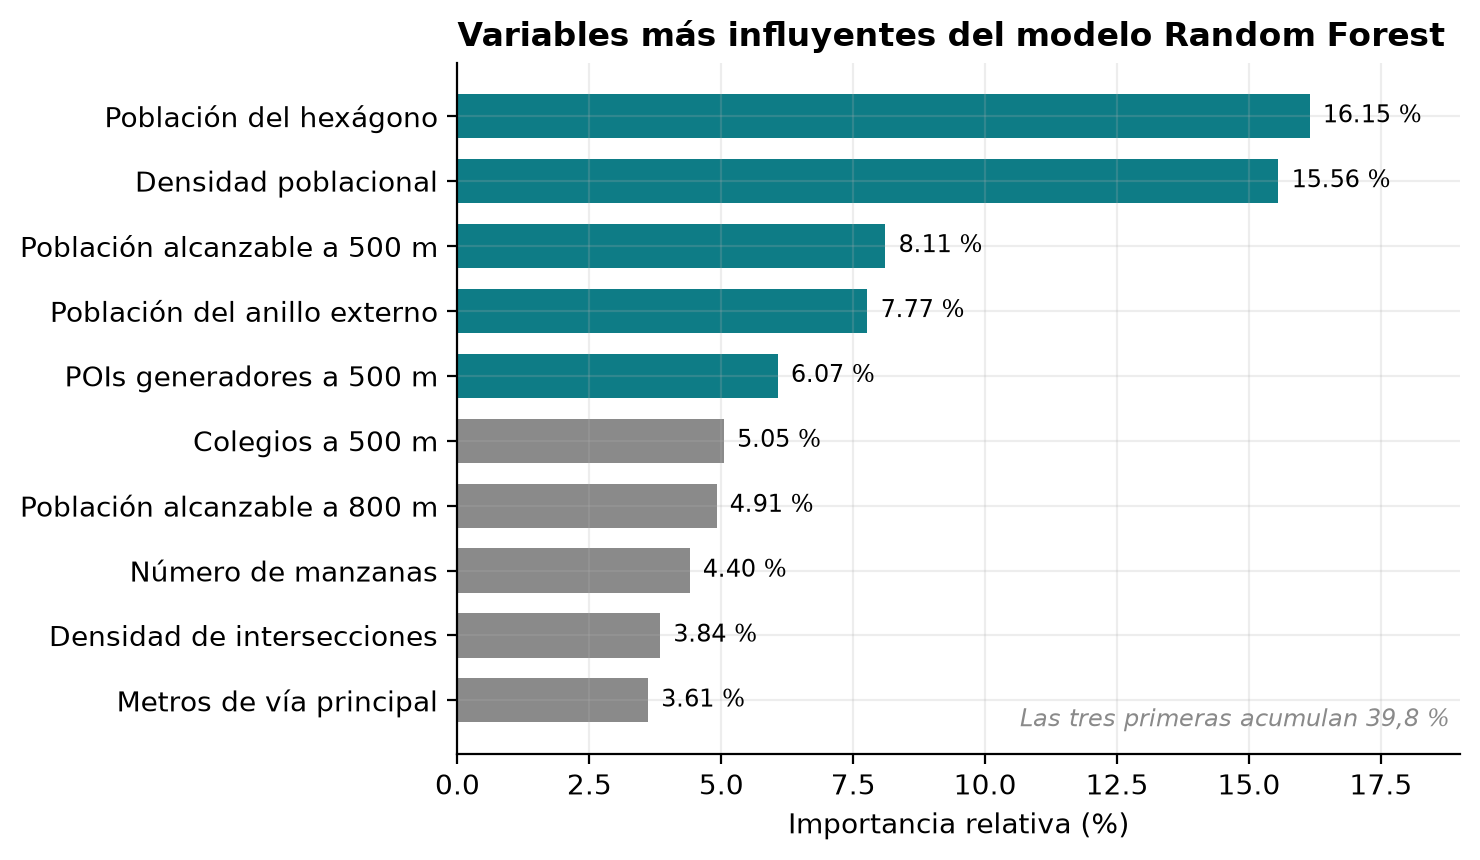
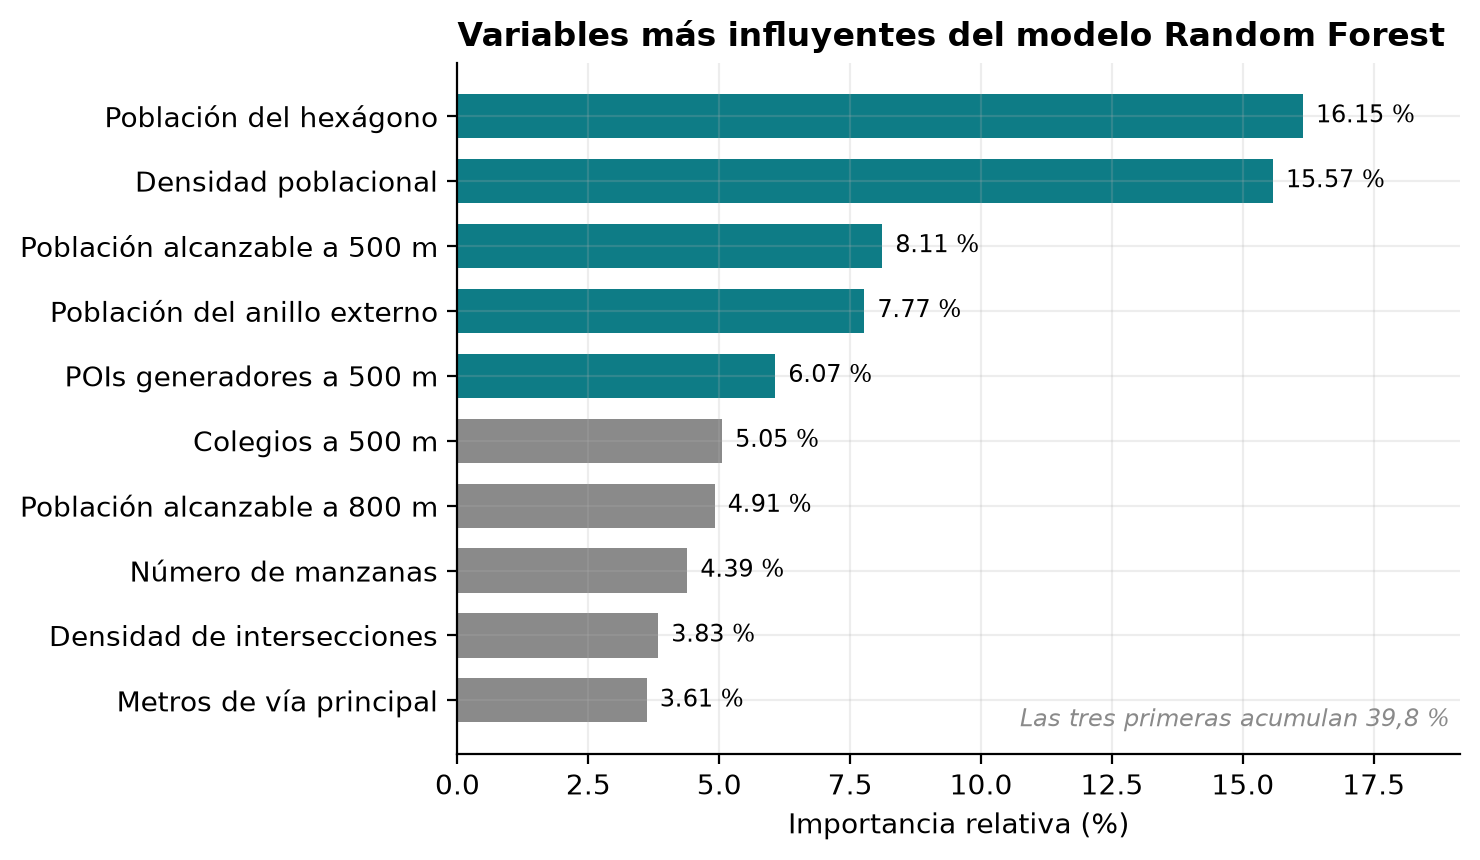
Generar las figuras del capitulo V a partir de los resultados del pipeline
figuras_capitulo5.py tenia las metricas escritas a mano, por lo que las
figuras 23, 24, 25 y 30 no cambiaban al reejecutar el pipeline. Ahora leen
resultados/. pipeline.py guarda ademas la validacion cruzada espacial y la
importancia de variables, y todos los scripts leen y escriben directamente
en resultados/ y figuras/.

diff --git a/figuras_capitulo5.py b/figuras_capitulo5.py
@@ -7,10 +7,17 @@ variables, comparacion de modelos, distribucion territorial del Top-50, pesos
 elicitados por AHP, puntajes SUS, dimensiones TAM, resultados por perfil de
 usuario y comparacion entre las dos estrategias de validacion.
 """
+import glob
+
+import geopandas as gpd
 import matplotlib
 matplotlib.use("Agg")
 import matplotlib.pyplot as plt
 import numpy as np
+import pandas as pd
+
+RES = "resultados"
+FIG = "figuras"
 
 plt.rcParams.update({
     "font.size": 10, "figure.dpi": 200, "savefig.dpi": 200,
@@ -26,17 +33,21 @@ CARMIN = "#B23A5B"
 
 def guardar(fig, nombre):
     fig.tight_layout()
-    fig.savefig(nombre, bbox_inches="tight", facecolor="white")
+    fig.savefig(f"{FIG}/{nombre}", bbox_inches="tight", facecolor="white")
     plt.close(fig)
     print(f"  >> {nombre}")
 
 
-var = ["Población del hexágono", "Densidad poblacional",
-       "Población alcanzable a 500 m", "Población del anillo externo",
-       "POIs generadores a 500 m", "Colegios a 500 m",
-       "Población alcanzable a 800 m", "Número de manzanas",
-       "Densidad de intersecciones", "Metros de vía principal"]
-imp = [.1615, .1556, .0811, .0777, .0607, .0505, .0491, .0440, .0384, .0361]
+ETIQUETAS = {
+    "pob_2017": "Población del hexágono", "dens_hab_km2": "Densidad poblacional",
+    "pob_k1": "Población alcanzable a 500 m", "pob_k1_ext": "Población del anillo externo",
+    "n_poi_k1": "POIs generadores a 500 m", "n_colegio_k1": "Colegios a 500 m",
+    "pob_k2": "Población alcanzable a 800 m", "n_mz": "Número de manzanas",
+    "dens_intersec_km2": "Densidad de intersecciones", "long_princ_m": "Metros de vía principal",
+}
+I = pd.read_csv(f"{RES}/importancia_variables.csv").head(10)
+var = [ETIQUETAS.get(v, v) for v in I["variable"]]
+imp = I["importancia"].tolist()
 fig, ax = plt.subplots(figsize=(7.5, 4.4))
 y = np.arange(len(var))[::-1]
 col = [PETROL if v >= .06 else GRIS for v in imp]
@@ -46,16 +57,21 @@ ax.set_xlabel("Importancia relativa (%)")
 ax.set_title("Variables más influyentes del modelo Random Forest", loc="left", weight="bold")
 for yy, v in zip(y, imp):
     ax.text(v * 100 + .25, yy, f"{v*100:.2f} %", va="center", fontsize=8.5)
-ax.set_xlim(0, 19)
-ax.text(.99, .04, "Las tres primeras acumulan 39,8 %", transform=ax.transAxes,
+ax.set_xlim(0, max(imp) * 100 + 3)
+ax.text(.99, .04, f"Las tres primeras acumulan {sum(imp[:3])*100:.1f} %".replace(".", ","), transform=ax.transAxes,
         ha="right", fontsize=8.5, style="italic", color=GRIS)
 guardar(fig, "fig23_importancia_variables.png")
 
-mod = ["Baseline\ndensidad", "Baseline\npoblación", "Baseline\nPOIs",
-       "Regresión\nlogística", "Random\nForest", "XGBoost", "Ensamble"]
-pr = [.080, .092, .062, .101, .103, .089, .108]
-lift = [2.066, 3.099, 2.324, 3.357, 3.616, 3.357, 3.874]
-es_base = [True, True, True, False, False, False, False]
+NOMBRES_BT = {
+    "Baseline densidad": "Baseline\ndensidad", "Baseline pob. k1": "Baseline\npoblación",
+    "Baseline POIs k1": "Baseline\nPOIs", "Regresion logistica": "Regresión\nlogística",
+    "Random Forest": "Random\nForest", "XGBoost": "XGBoost", "Ensamble (rank avg)": "Ensamble",
+}
+BT = pd.read_csv(f"{RES}/resultados_backtesting.csv").set_index("modelo").loc[list(NOMBRES_BT)]
+mod = list(NOMBRES_BT.values())
+pr = BT["PR_AUC"].tolist()
+lift = BT["Lift@10%"].tolist()
+es_base = [m.startswith("Baseline") for m in BT.index]
 fig, (a1, a2) = plt.subplots(1, 2, figsize=(10.5, 4.2))
 x = np.arange(len(mod))
 c = [GRIS if b else PETROL for b in es_base]
@@ -64,23 +80,32 @@ a1.bar(x, pr, color=c)
 a1.set_xticks(x); a1.set_xticklabels(mod, fontsize=8)
 a1.set_ylabel("PR-AUC"); a1.set_title("Área bajo la curva precisión-recall", loc="left", weight="bold")
 for xx, v in zip(x, pr): a1.text(xx, v + .002, f"{v:.3f}", ha="center", fontsize=8)
-a1.set_ylim(0, .125)
+a1.set_ylim(0, max(pr) * 1.15)
 a2.bar(x, lift, color=c)
 a2.axhline(3, color=CARMIN, ls="--", lw=1.4)
-a2.text(len(mod) - .4, 3.06, "Criterio: Lift ≥ 3", ha="right", color=CARMIN, fontsize=8.5)
+a2.text(-.4, max(max(lift), 3) * 1.12, "- - Criterio: Lift ≥ 3", ha="left", color=CARMIN, fontsize=8.5)
 a2.set_xticks(x); a2.set_xticklabels(mod, fontsize=8)
 a2.set_ylabel("Lift en el decil superior")
 a2.set_title("Concentración de aperturas en el decil superior", loc="left", weight="bold")
 for xx, v in zip(x, lift): a2.text(xx, v + .06, f"{v:.2f}", ha="center", fontsize=8)
-a2.set_ylim(0, 4.6)
+a2.set_ylim(0, max(max(lift), 3) * 1.18)
 guardar(fig, "fig24_comparacion_modelos.png")
 
-dist = ["Jacobo Hunter", "Socabaya", "Cerro Colorado", "Miraflores", "Tiabaya",
-        "Mariano Melgar", "Cayma", "Yura", "Uchumayo", "Yanahuara",
-        "Sachaca", "Paucarpata", "Alto Selva Alegre"]
-n = [10, 9, 8, 7, 3, 3, 2, 2, 2, 1, 1, 1, 1]
-pob = [49454, 75145, 196909, 60361, 16065, 62051, 91197, 32926, 13978,
-       25247, 23913, 131073, 85757]
+UBIGEOS = {
+    "040101": "AREQUIPA", "040102": "ALTO SELVA ALEGRE", "040103": "CAYMA",
+    "040104": "CERRO COLORADO", "040105": "CHARACATO", "040107": "JACOBO HUNTER",
+    "040109": "MARIANO MELGAR", "040110": "MIRAFLORES", "040112": "PAUCARPATA",
+    "040116": "SABANDIA", "040117": "SACHACA", "040122": "SOCABAYA",
+    "040123": "TIABAYA", "040124": "UCHUMAYO", "040126": "YANAHUARA",
+    "040128": "YURA", "040129": "JLBR",
+}
+mz = gpd.read_file(glob.glob("data/inei/*Manzanas_Poblacion*.dbf")[0], ignore_geometry=True)
+pob_dist = mz.groupby(mz["UBIGEO"].map(UBIGEOS))["T_TOTAL"].sum()
+R = pd.read_parquet(f"{RES}/resultado_final.parquet")
+top50 = R[R["viable"]].nlargest(50, "SCORE")["DIST"].value_counts()
+dist = [d.title() for d in top50.index]
+n = top50.tolist()
+pob = [int(pob_dist[d]) for d in top50.index]
 fig, ax = plt.subplots(figsize=(8.4, 4.6))
 y = np.arange(len(dist))[::-1]
 col = [NARANJA if v >= 7 else PETROL for v in n]
@@ -91,7 +116,7 @@ ax.set_title("Distribución territorial de las oportunidades identificadas",
              loc="left", weight="bold")
 for yy, v, p in zip(y, n, pob):
     ax.text(v + .18, yy, f"{v}   ({p:,} hab.)".replace(",", " "), va="center", fontsize=8)
-ax.set_xlim(0, 15)
+ax.set_xlim(0, max(n) + 5)
 guardar(fig, "fig25_distribucion_territorial.png")
 
 crit = ["Demanda\nalcanzable", "Perfil\nde sitio", "Amenaza de\nretail moderno",
@@ -191,8 +216,10 @@ for xx, v in zip(x, tam_p): a2.text(xx, v + .03, f"{v:.2f}", ha="center", fontsi
 guardar(fig, "fig29_perfil_usuario.png")
 
 mods = ["Regresión\nlogística", "Random\nForest", "XGBoost", "Ensamble"]
-roc_cv = [.875, .929, .920, .919]
-roc_bt = [.787, .777, .780, .798]
+CV = pd.read_csv(f"{RES}/resultados_cv.csv").set_index("modelo")
+roc_cv = CV.loc[["LR", "RF", "XGB", "ENS"], "ROC_AUC"].tolist()
+roc_bt = BT.loc[["Regresion logistica", "Random Forest", "XGBoost", "Ensamble (rank avg)"],
+                "ROC_AUC"].tolist()
 fig, ax = plt.subplots(figsize=(7.6, 4.3))
 x = np.arange(4); w = .36
 ax.bar(x - w/2, roc_cv, w, label="Validación cruzada espacial", color=PETROL)

diff --git a/pipeline.py b/pipeline.py
@@ -27,6 +27,7 @@ from sklearn.preprocessing import StandardScaler
 
 np.random.seed(42)
 DATA = "data"
+OUT = "resultados"
 UTM = 32719
 RES = 9
 
@@ -102,7 +103,7 @@ def construir_malla():
     grid["dens_hab_km2"] = grid["pob_2017"] / grid["area_km2"]
 
     print(f"    hexagonos: {len(grid):,} | poblacion repartida: {grid['pob_2017'].sum():,.0f}")
-    grid.to_parquet("grid.parquet")
+    grid.to_parquet(f"{OUT}/grid.parquet")
     return grid
 
 
@@ -152,7 +153,7 @@ def panel_mass():
     H["h3"] = [h3.latlng_to_cell(r.lat, r.lng, RES) for r in H.itertuples()]
     H = H.merge(H.groupby("codigo")["anio"].min().rename("anio_apertura"), on="codigo")
     gpd.GeoDataFrame(H, geometry=[Point(r.lng, r.lat) for r in H.itertuples()],
-                     crs="EPSG:4326").to_parquet("mass_panel.parquet")
+                     crs="EPSG:4326").to_parquet(f"{OUT}/mass_panel.parquet")
     u = H.sort_values("anio").drop_duplicates("codigo", keep="last")
     print(f"    tiendas unicas: {H['codigo'].nunique()} | hexagonos: {H['h3'].nunique()}")
     print(f"    aperturas por anio:\n{u['anio_apertura'].value_counts().sort_index().to_string()}")
@@ -256,7 +257,7 @@ def features(grid, mass):
     F["pct_vial_princ"] = F["long_princ_m"] / (F["long_vial_m"] + 1)
 
     print(f"    matriz: {F.shape[0]:,} hexagonos x {F.shape[1]} columnas")
-    F.to_parquet("features.parquet")
+    F.to_parquet(f"{OUT}/features.parquet")
     return F
 
 
@@ -319,7 +320,7 @@ def modelos(F):
     print("\n    --- Backtesting temporal ---")
     print(R[["modelo", "PR_AUC", "ROC_AUC", "P@20", "Lift@10%", "acierto@20"]]
           .round(3).to_string(index=False))
-    R.to_csv("resultados_backtesting.csv", index=False)
+    R.to_csv(f"{OUT}/resultados_backtesting.csv", index=False)
 
     y = F["mass_2026"].values
     F["bloque"] = [h3.cell_to_parent(c, 6) for c in F["h3"]]
@@ -340,18 +341,20 @@ def modelos(F):
             .fit(X[tr], y[tr]).predict_proba(X[te])[:, 1]
 
     print(f"\n    --- Validacion cruzada espacial ({F['bloque'].nunique()} bloques H3 r6) ---")
+    oof["ENS"] = np.mean([pd.Series(v).rank(pct=True) for v in oof.values()], axis=0)
+    cv = []
     for k, v in oof.items():
-        print(f"    {k:4s}  PR-AUC {average_precision_score(y, v):.3f}   "
-              f"ROC-AUC {roc_auc_score(y, v):.3f}")
-    eo = np.mean([pd.Series(v).rank(pct=True) for v in oof.values()], axis=0)
-    print(f"    ENS   PR-AUC {average_precision_score(y, eo):.3f}   "
-          f"ROC-AUC {roc_auc_score(y, eo):.3f}")
+        cv.append({"modelo": k, "PR_AUC": average_precision_score(y, v),
+                   "ROC_AUC": roc_auc_score(y, v)})
+        print(f"    {k:4s}  PR-AUC {cv[-1]['PR_AUC']:.3f}   ROC-AUC {cv[-1]['ROC_AUC']:.3f}")
+    pd.DataFrame(cv).to_csv(f"{OUT}/resultados_cv.csv", index=False)
 
     MF = hacer_modelos(y)
     F["p_potencial"] = np.mean(
         [pd.Series(m.predict_proba(sc.transform(X) if t == "s" else X)[:, 1]).rank(pct=True)
          for t, sc, m in MF.values()], axis=0)
     imp = pd.Series(MF["RF"][2].feature_importances_, index=PRED).sort_values(ascending=False)
+    imp.rename_axis("variable").rename("importancia").to_csv(f"{OUT}/importancia_variables.csv")
     print("\n    Top 10 variables:")
     print("    " + imp.head(10).round(4).to_string().replace("\n", "\n    "))
     return F
@@ -373,7 +376,7 @@ def score(F, grid, gasto_mes=180, w_pot=0.45, pen_mass=0.60, radio=800, pob_min=
     out = gpd.GeoDataFrame(out, geometry="geometry", crs="EPSG:4326")
     cen = out.to_crs(UTM).geometry.centroid.to_crs(4326)
     out["lat"], out["lon"] = cen.y, cen.x
-    out.to_parquet("resultado_final.parquet")
+    out.to_parquet(f"{OUT}/resultado_final.parquet")
 
     top = out[out["viable"]].nlargest(20, "SCORE")
     print(f"\n    --- TOP 20 UBICACIONES ---")
@@ -392,5 +395,5 @@ if __name__ == "__main__":
     F = modelos(F)
     out = score(F, grid)
     print("\n=== PIPELINE COMPLETO ===")
-    print("  grid.parquet · features.parquet · resultado_final.parquet")
-    print("  resultados_backtesting.csv")
+    print(f"  en {OUT}/: grid.parquet · features.parquet · resultado_final.parquet")
+    print("  resultados_backtesting.csv · resultados_cv.csv · importancia_variables.csv")

diff --git a/verificar_integridad.py b/verificar_integridad.py
@@ -15,6 +15,7 @@ import numpy as np
 import pandas as pd
 
 DATA = "data"
+OUT = "resultados"
 UBIGEOS = {
     "040101", "040102", "040103", "040104", "040105", "040107", "040109",
     "040110", "040112", "040116", "040117", "040122", "040123", "040124",
@@ -38,7 +39,7 @@ mz = gpd.read_file(shp)
 mz = mz[mz["UBIGEO"].isin(UBIGEOS)]
 pob_mz = pd.to_numeric(mz["T_TOTAL"], errors="coerce").fillna(0).sum()
 
-grid = gpd.read_parquet("grid.parquet")
+grid = gpd.read_parquet(f"{OUT}/grid.parquet")
 pob_hx = grid["pob_2017"].sum()
 err = abs(pob_hx - pob_mz) / pob_mz * 100
 
@@ -62,7 +63,7 @@ chk("Composicion de la malla",
     "Nucleo censado + anillo de expansion = total de celdas",
     f"{n_nuc:,} nucleo + {n_ani:,} anillo = {n_tot:,}", n_nuc + n_ani == n_tot)
 
-mp = gpd.read_parquet("mass_panel.parquet")
+mp = gpd.read_parquet(f"{OUT}/mass_panel.parquet")
 crudos = mp["codigo"].astype(str).str.strip().nunique()
 norm = (mp["codigo"].astype(str).str.strip().str.upper()
         .str.replace(r"\s+", " ", regex=True).nunique())
@@ -71,7 +72,7 @@ chk("Normalizacion de codigos del panel historico",
     "El conteo de tiendas unicas no varia tras normalizar capitalizacion",
     f"{crudos} sin normalizar vs {norm} normalizado", crudos == norm)
 
-F = pd.read_parquet("features.parquet")
+F = pd.read_parquet(f"{OUT}/features.parquet")
 num = F.select_dtypes(include=[np.number])
 n_inf = int(np.isinf(num.values).sum())
 n_nan = int(num.isna().sum().sum())
@@ -102,7 +103,7 @@ chk("Independencia de las particiones espaciales",
     f"{bloque.nunique()} bloques, {comp} compartidos", comp == 0)
 
 try:
-    R = pd.read_csv("resultados_backtesting.csv")
+    R = pd.read_csv(f"{OUT}/resultados_backtesting.csv")
     ok = len(R) >= 7
     chk("Comparacion contra lineas base univariadas",
         "El backtesting evalua los 4 modelos y las 3 lineas base",
@@ -111,6 +112,6 @@ except FileNotFoundError:
     pass
 
 T = pd.DataFrame(filas)
-T.to_csv("tabla5_integridad.csv", index=False, encoding="utf-8-sig")
+T.to_csv(f"{OUT}/tabla5_integridad.csv", index=False, encoding="utf-8-sig")
 print(T.to_string(index=False))
 print("\n>> tabla5_integridad.csv generada")

diff --git a/sensibilidad_ranking.py b/sensibilidad_ranking.py
@@ -17,7 +17,7 @@ RADIO = 800
 POB_MIN = 1500
 UMBRAL = 0.70
 
-F = gpd.read_parquet("resultado_final.parquet")
+F = gpd.read_parquet("resultados/resultado_final.parquet")
 
 
 def calcular_score(w_pot=W_POT, pen_mass=PEN_MASS, radio=RADIO, pob_min=POB_MIN):
@@ -47,7 +47,7 @@ for nombre, fn in parametros.items():
                       "permanencia": len(top & base_top10) / 10})
 
 T = pd.DataFrame(filas)
-T.to_csv("tabla_sensibilidad.csv", index=False, encoding="utf-8-sig")
+T.to_csv("resultados/tabla_sensibilidad.csv", index=False, encoding="utf-8-sig")
 
 plt.rcParams.update({"font.size": 11, "figure.dpi": 150})
 fig, ax = plt.subplots(figsize=(8, 5))
@@ -67,7 +67,7 @@ ax.set_xticks(range(-20, 21, 5))
 ax.grid(alpha=0.25)
 ax.legend(frameon=False, loc="lower center", fontsize=9)
 fig.tight_layout()
-fig.savefig("figura22_sensibilidad.png", bbox_inches="tight")
+fig.savefig("figuras/figura22_sensibilidad.png", bbox_inches="tight")
 
 print(T.pivot(index="variacion_pct", columns="parametro",
               values="permanencia").round(2).to_string())
